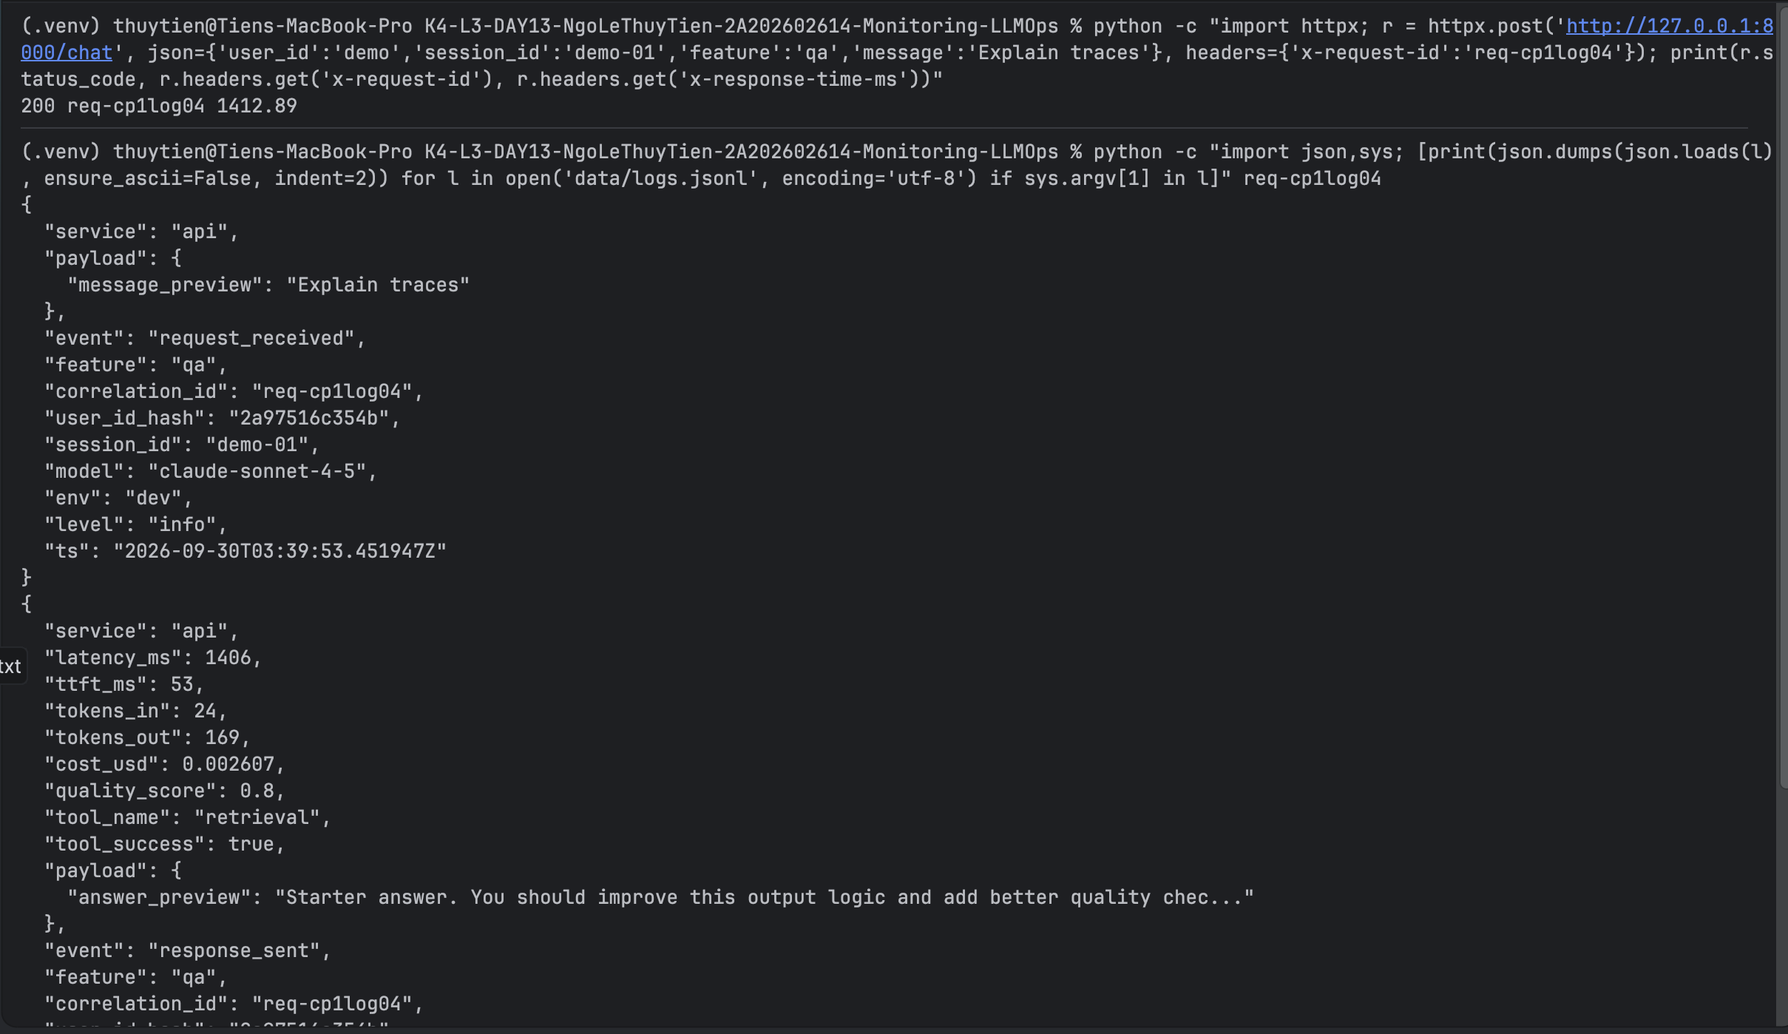
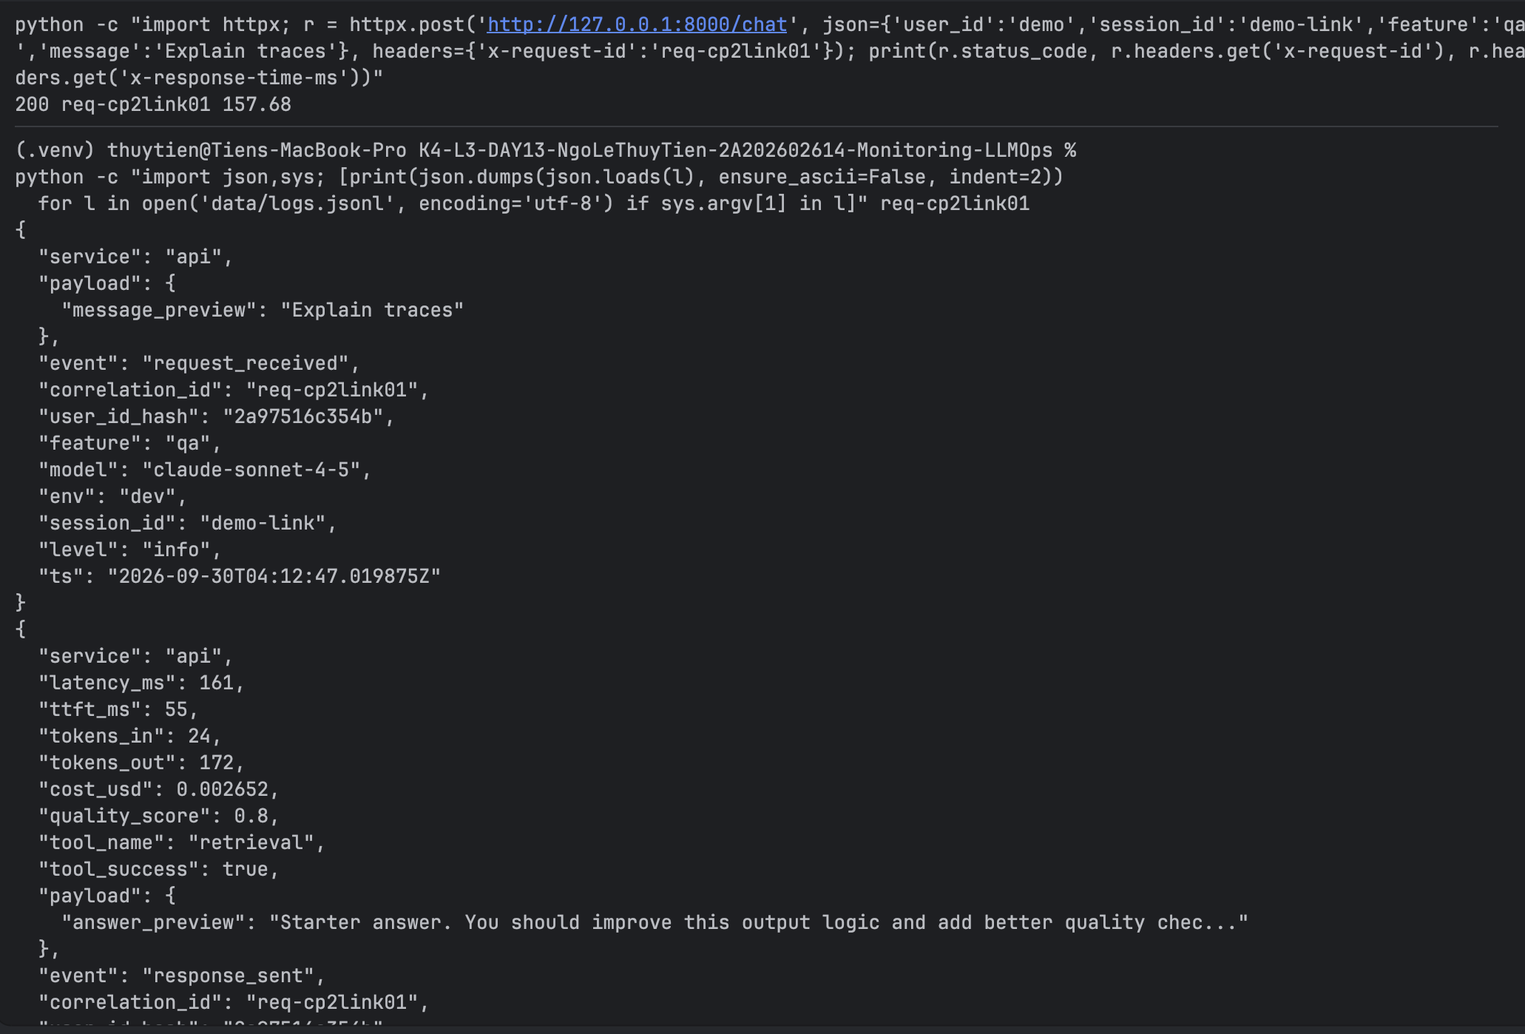
feat: CP2 child observations, prompt versioning, dashboard, SLO and alerts
- tracing: retrieval (retriever) and generation (generation) child observations
  under lab-agent-run with model, usage, cost and prompt link; no raw I/O
- move cost estimate to mock_llm so the generation span carries cost
- dashboard: scripts/dashboard.py draws the 6 panels from data/logs.jsonl
- slo/alerts: latency threshold 2000ms from baseline, three symptom-based
  alerts with duration/owner/Slack channel, runbooks in docs/alerts.md
- report: CP2 results, prompt v1/v2 trace IDs, promote/rollback; evidence 06, 09, 10a, 10b, 11

Changed region(s): [[0.0, 0.0, 1.0, 1.0]]

diff --git a/scripts/dashboard.py b/scripts/dashboard.py
@@ -1,0 +1,138 @@
+"""Vẽ dashboard 6 panel từ data/logs.jsonl theo config/dashboard.yaml.
+
+Cần matplotlib + pandas + pyyaml. Cài vào venv riêng, không cài vào .venv của API:
+    python -m venv .venv-dash && .venv-dash/bin/pip install matplotlib pandas pyyaml
+    .venv-dash/bin/python scripts/dashboard.py --out submission/evidence/11-dashboard-overview.png
+"""
+from __future__ import annotations
+
+import argparse
+import json
+from pathlib import Path
+
+import matplotlib
+
+matplotlib.use("Agg")
+import matplotlib.pyplot as plt
+import pandas as pd
+import yaml
+
+REPO_ROOT = Path(__file__).resolve().parents[1]
+
+
+def load_logs(path: Path) -> pd.DataFrame:
+    rows = [json.loads(line) for line in path.read_text(encoding="utf-8").splitlines() if line.strip()]
+    df = pd.DataFrame(rows)
+    df["ts"] = pd.to_datetime(df["ts"], utc=True)
+    return df
+
+
+def per_minute(df: pd.DataFrame) -> pd.DataFrame:
+    return df.set_index("ts").sort_index()
+
+
+def threshold_line(ax, panel: dict) -> None:
+    th = panel["threshold"]
+    ax.axhline(th["value"], color="crimson", linestyle="--", linewidth=1.2,
+               label=f"threshold {th['aggregation']} {'≤' if th['operator'] == 'lte' else '≥'} {th['value']}")
+
+
+def main() -> None:
+    parser = argparse.ArgumentParser()
+    parser.add_argument("--config", type=Path, default=REPO_ROOT / "config" / "dashboard.yaml")
+    parser.add_argument("--logs", type=Path, default=REPO_ROOT / "data" / "logs.jsonl")
+    parser.add_argument("--out", type=Path, default=REPO_ROOT / "submission" / "evidence" / "11-dashboard-overview.png")
+    args = parser.parse_args()
+
+    cfg = yaml.safe_load(args.config.read_text(encoding="utf-8"))["dashboard"]
+    panels = {p["id"]: p for p in cfg["panels"]}
+    df = load_logs(args.logs)
+    end = df["ts"].max()
+    df = df[df["ts"] >= end - pd.Timedelta(minutes=cfg["time_range_minutes"])]
+    ts = per_minute(df)
+
+    sent = ts[ts["event"] == "response_sent"]
+    recv = ts[ts["event"] == "request_received"]
+    failed = ts[ts["event"] == "request_failed"]
+    tool = ts[ts["tool_success"].notna()] if "tool_success" in ts else ts.iloc[0:0]
+
+    fig, axes = plt.subplots(2, 3, figsize=(19, 9))
+    fig.suptitle(
+        f"{cfg['title']} | last {cfg['time_range_minutes']} min | auto-refresh {cfg['refresh_seconds']}s | "
+        f"{len(recv)} requests, {len(failed)} errors | UTC",
+        fontsize=13,
+    )
+
+    # 1. Latency
+    p = panels["latency"]; ax = axes[0, 0]
+    g = sent["latency_ms"].resample("1min")
+    for q, style in ((0.5, "-"), (0.95, "-"), (0.99, ":")):
+        ax.plot(g.quantile(q).index, g.quantile(q).values, style, marker="o", ms=3, label=f"P{int(q*100)}")
+    tg = sent["ttft_ms"].resample("1min").quantile(0.95)
+    ax.plot(tg.index, tg.values, "--", label="TTFT P95")
+    threshold_line(ax, p)
+    ax.set_title(f"{p['title']} ({p['unit']})")
+
+    # 2. Traffic
+    p = panels["traffic"]; ax = axes[0, 1]
+    tr = recv["event"].resample("1min").count()
+    ax.bar(tr.index, tr.values, width=0.0006, color="tab:blue", label="requests/min")
+    threshold_line(ax, p)
+    ax.set_title(f"{p['title']} ({p['unit']})")
+
+    # 3. Errors
+    p = panels["errors"]; ax = axes[0, 2]
+    n_recv = recv["event"].resample("1min").count()
+    n_fail = failed["event"].resample("1min").count().reindex(n_recv.index, fill_value=0)
+    err = (n_fail / n_recv.where(n_recv > 0) * 100).fillna(0)
+    ax.plot(err.index, err.values, marker="o", ms=3, label="error rate %")
+    if len(tool):
+        ts_rate = tool["tool_success"].astype(float).resample("1min").mean() * 100
+        ax.plot(ts_rate.index, ts_rate.values, marker="s", ms=3, label="retrieval success %")
+    threshold_line(ax, p)
+    ax.set_ylim(-5, 105)
+    ax.set_title(f"{p['title']} ({p['unit']})")
+
+    # 4. Cost (cumulative so it compares with the total threshold)
+    p = panels["cost"]; ax = axes[1, 0]
+    cost = sent["cost_usd"].resample("1min").sum()
+    ax.bar(cost.index, cost.values, width=0.0006, label="USD/min")
+    ax.plot(cost.index, cost.cumsum().values, "k-", marker="o", ms=3, label="cumulative USD")
+    threshold_line(ax, p)
+    ax.set_title(f"{p['title']} ({p['unit']}) total={sent['cost_usd'].sum():.4f}")
+
+    # 5. Tokens
+    p = panels["tokens"]; ax = axes[1, 1]
+    for col in ("tokens_in", "tokens_out"):
+        s = sent[col].resample("1min").sum()
+        ax.plot(s.index, s.values, marker="o", ms=3, label=f"{col}/min")
+    total = sent[["tokens_in", "tokens_out"]].sum()
+    threshold_line(ax, p)
+    ax.set_title(f"{p['title']} ({p['unit']}) in={int(total.tokens_in)} out={int(total.tokens_out)}")
+
+    # 6. Quality
+    p = panels["quality"]; ax = axes[1, 2]
+    q = sent["quality_score"].resample("1min").mean()
+    ax.plot(q.index, q.values, marker="o", ms=3, label="mean quality")
+    threshold_line(ax, p)
+    ax.set_ylim(0, 1.05)
+    ax.set_title(f"{p['title']} ({p['unit']}) mean={sent['quality_score'].mean():.2f}")
+
+    for ax in axes.flat:
+        ax.legend(fontsize=8, loc="best")
+        ax.grid(alpha=0.3)
+        ax.tick_params(axis="x", labelrotation=30, labelsize=8)
+        ax.set_xlim(df["ts"].min() - pd.Timedelta(minutes=1), end + pd.Timedelta(minutes=1))
+        ax.xaxis.set_major_locator(matplotlib.dates.AutoDateLocator(minticks=4, maxticks=8))
+        ax.xaxis.set_major_formatter(matplotlib.dates.DateFormatter("%H:%M"))
+
+    fig.tight_layout(rect=(0, 0, 1, 0.96))
+    args.out.parent.mkdir(parents=True, exist_ok=True)
+    fig.savefig(args.out, dpi=110)
+    print(f"Đã ghi {args.out}")
+    print(sent["latency_ms"].describe(percentiles=[0.5, 0.95, 0.99]).round(1).to_string())
+    print("retrieval success %:", round(tool["tool_success"].astype(float).mean() * 100, 1) if len(tool) else "n/a")
+
+
+if __name__ == "__main__":
+    main()

diff --git a/app/mock_llm.py b/app/mock_llm.py
@@ -5,6 +5,16 @@ import time
 from dataclasses import dataclass
 
 from .incidents import STATE
+from .tracing import get_langfuse_client, observe
+
+INPUT_USD_PER_MTOK = 3
+OUTPUT_USD_PER_MTOK = 15
+
+
+def estimate_cost(tokens_in: int, tokens_out: int) -> float:
+    input_cost = (tokens_in / 1_000_000) * INPUT_USD_PER_MTOK
+    output_cost = (tokens_out / 1_000_000) * OUTPUT_USD_PER_MTOK
+    return round(input_cost + output_cost, 6)
 
 
 @dataclass
@@ -25,6 +35,7 @@ class FakeLLM:
     def __init__(self, model: str = "claude-sonnet-4-5") -> None:
         self.model = model
 
+    @observe(name="generation", as_type="generation", capture_input=False, capture_output=False)
     def generate(self, prompt: str) -> FakeResponse:
         started = time.perf_counter()
         time.sleep(0.05)  # mô phỏng thời điểm token đầu tiên sẵn sàng
@@ -37,6 +48,16 @@ class FakeLLM:
         answer = (
             "Starter answer. You should improve this output logic and add better quality checks. "
             "Use retrieved context and keep responses concise."
+        )
+        get_langfuse_client().update_current_generation(
+            model=self.model,
+            usage_details={"input": input_tokens, "output": output_tokens},
+            cost_details={
+                "input": estimate_cost(input_tokens, 0),
+                "output": estimate_cost(0, output_tokens),
+                "total": estimate_cost(input_tokens, output_tokens),
+            },
+            metadata={"ttft_ms": ttft_ms},
         )
         return FakeResponse(
             text=answer,

diff --git a/app/agent.py b/app/agent.py
@@ -5,7 +5,7 @@ import time
 from dataclasses import dataclass
 
 from . import metrics
-from .mock_llm import FakeLLM
+from .mock_llm import FakeLLM, estimate_cost
 from .mock_rag import retrieve
 from .pii import hash_user_id, summarize_text
 from .prompt_management import resolve_prompt
@@ -71,8 +71,6 @@ class LabAgent:
                 },
                 version=prompt.version,
             )
-            # TODO (CP2): instrument retrieve() and FakeLLM.generate() as child
-            # observations. The nested generation must receive prompt, usage and cost.
             with propagate_attributes(prompt=prompt.managed_prompt):
                 response = self.llm.generate(prompt.text)
             quality_score = self._heuristic_quality(message, response.text, docs)
@@ -99,9 +97,7 @@ class LabAgent:
         )
 
     def _estimate_cost(self, tokens_in: int, tokens_out: int) -> float:
-        input_cost = (tokens_in / 1_000_000) * 3
-        output_cost = (tokens_out / 1_000_000) * 15
-        return round(input_cost + output_cost, 6)
+        return estimate_cost(tokens_in, tokens_out)
 
     def _heuristic_quality(self, question: str, answer: str, docs: list[str]) -> float:
         score = 0.5

diff --git a/app/mock_rag.py b/app/mock_rag.py
@@ -3,6 +3,7 @@ from __future__ import annotations
 import time
 
 from .incidents import STATE
+from .tracing import observe
 
 CORPUS = {
     "refund": ["Refunds are available within 7 days with proof of purchase."],
@@ -11,6 +12,7 @@ CORPUS = {
 }
 
 
+@observe(name="retrieval", as_type="retriever", capture_input=False, capture_output=False)
 def retrieve(message: str) -> list[str]:
     if STATE["tool_fail"]:
         raise RuntimeError("Vector store timeout")

diff --git a/submission/REPORT.md b/submission/REPORT.md
@@ -25,9 +25,9 @@
 | PII redaction | `evidence/05-pii-redaction.png` |
 | Trace list | `evidence/06-trace-list.png` |
 | Trace waterfall | `evidence/07-trace-waterfall.png` |
-| Trace metadata | `evidence/08-trace-metadata.png` |
+| Trace metadata | `evidence/08a-trace-metadata.png` (lab-agent-run), `evidence/08b-generation-prompt-link.png` (generation, link prompt) |
 | Prompt versions | `evidence/09-prompt-versions.png` |
-| Prompt rollback | `evidence/10-prompt-rollback.png` |
+| Prompt rollback | `evidence/10a-promote-production-v2.png` (sau promote), `evidence/10b-rollback-production-v1.png` (sau rollback) |
 | Dashboard runtime | `evidence/11-dashboard-overview.png` |
 | Incident metric | `evidence/12-incident-metric.png` |
 | Incident log | `evidence/13-incident-log.png` |
@@ -38,37 +38,37 @@
 | Nội dung | Baseline | Kết quả cuối | Nhận xét |
 |---|---|---|---|
 | `validate_logs.py` | 30/100 (21 log, thiếu required fields/context, 0 correlation ID) | 100/100 | 0 record thiếu field, 10 correlation ID |
-| `validate_dashboard.py` | | | |
+| `validate_dashboard.py` | 6/6 (contract starter, chưa có dữ liệu) | HỢP LỆ: 6/6 panel | Đã dựng dashboard có dữ liệu thật, evidence 11 |
 | `pytest` | | | |
-| Số traces hợp lệ | | | |
+| Số traces hợp lệ | 0 (chưa có retrieval/generation) | 51 trace đủ cây (48 có prompt link) | Kiểm tra bằng Langfuse observations API |
 | Số PII leak | 0 | 0 | Log runtime chỉ còn `[REDACTED_*]` |
-| Latency P95 / TTFT P95 | | | |
-| Retrieval success rate | | | |
+| Latency P95 / TTFT P95 | | P95 162 ms (P50 159 ms, P99 883 ms) | 43 request, không bật incident; TTFT P95 khoảng 50-55 ms |
+| Retrieval success rate | | 100% | 43/43 response_sent có tool_success=true |
 
 ## 4. Logging và PII
 
-- **Cách tạo/nhận và truyền correlation ID:** `CorrelationIdMiddleware` (`app/middleware.py`) gọi `clear_contextvars()` đầu mỗi request, nhận header `x-request-id` hoặc sinh `req-<8 hex>`, bind vào structlog contextvars và `request.state`, rồi trả lại qua header `x-request-id` cùng `x-response-time-ms`. ID dùng cho evidence 04: `req-cp1log04` (evidence 05: `req-cp1pii02`).
+- **Cách tạo/nhận và truyền correlation ID:** `CorrelationIdMiddleware` (`app/middleware.py`) gọi `clear_contextvars()` đầu mỗi request, nhận header `x-request-id` hoặc sinh `req-<8 hex>`, bind vào structlog contextvars và `request.state`, rồi trả lại qua header `x-request-id` cùng `x-response-time-ms`. ID dùng cho evidence 04: `req-cp2link01` (evidence 05: `req-cp1pii02`).
 - **Các metadata được ghi vào structured log:** `ts`, `level`, `event`, `correlation_id`, `user_id_hash` (SHA-256 cắt 12 ký tự), `session_id`, `feature`, `model`, `env`; `response_sent` thêm `latency_ms`, `ttft_ms`, `tokens_in/out`, `cost_usd`, `quality_score`. Các field context được bind trong `app/main.py` trước log `request_received`.
 - **Cách bảo đảm PII được scrub trước khi ghi:** processor `scrub_event` được đăng ký trong `app/logging_config.py` trước `JsonlFileProcessor`, nên payload và event đã được che trước khi ghi file/render JSON. `app/pii.py` che email, điện thoại VN, CCCD, thẻ và passport.
 - **Cách kiểm chứng kết quả:** `validate_logs.py` từ 30/100 lên 100/100 (0 PII leak, 10 correlation ID khác nhau); `tests/test_pii.py` có test CCCD, thẻ, passport; gửi request chứa PII giả và thấy log hiện `[REDACTED_*]` (evidence 05).
 
 ## 5. Tracing và prompt versioning
 
-- **Cách xác nhận traces do chính tôi tạo trong project cá nhân:**
-- **Cấu trúc root/retrieval/generation observations:**
-- **Cách nối trace với log:**
-- **Prompt name:**
-- **Version/label baseline:**
-- **Version/label candidate:**
-- **Trace ID của mỗi version:**
-- **Cách promote và rollback `production`:**
+- **Cách xác nhận traces do chính tôi tạo trong project cá nhân:** Mở project `day13-k4-l3b-2A202602614`, lọc Metadata `correlation_id` = `req-cp2link01`; các trace có `correlation_id` trùng với log local do tôi tự chạy `load_test.py` và request tay. Đếm bằng Langfuse observations API: 51 trace đủ cây, hơn 10 yêu cầu.
+- **Cấu trúc root/retrieval/generation observations:** `day13-agent-request` (trace) → `lab-agent-run` (agent) → `retrieval` (retriever, `@observe` trên `retrieve`) và `generation` (generation, `@observe` trên `FakeLLM.generate`). Generation có `model`, `usage_details` (input/output), `cost_details` và link prompt qua `propagate_attributes(prompt=...)`. Tất cả `capture_input=False`, `capture_output=False` nên không có raw input/output.
+- **Cách nối trace với log:** `correlation_id` (do middleware sinh/nhận) nằm trong metadata của trace và trong mọi dòng log. Ví dụ `req-cp2link01` ↔ trace `25c02ddaafb30251e4afaba59638282d` (evidence 04, 07, 08).
+- **Prompt name:** `day13-chat` (text prompt, ba biến `{{feature}}`, `{{docs}}`, `{{message}}`)
+- **Version/label baseline:** v1, labels `baseline` + `production`
+- **Version/label candidate:** v2, label `candidate` (thêm dòng "Trả lời ngắn gọn."); `latest` do Langfuse tự gắn
+- **Trace ID của mỗi version:** v1 (`baseline`): `ab8f7a455c51766fe08a4cd8294bc24f`; v2 (`candidate`): `3346641ad0a67a6bb31a747a985055a0`. Cả hai có `prompt_name`, `prompt_label`, `prompt_version` đúng trong metadata và generation link tới đúng version.
+- **Cách promote và rollback `production`:** Không sửa code, chỉ dời label. Promote: `production` → v2, restart API, request `req-cp2-promote` cho `prompt_version=2`. Rollback: `production` → v1, restart, request `req-cp2-rollback` cho `prompt_version=1`. Mỗi lần restart API chờ vài giây sau request cuối để trace kịp gửi. Trạng thái cuối: `production` → v1.
 
 ## 6. Dashboard, SLO và alerts
 
-- **Dashboard và sáu panel:**
-- **SLO và lý do chọn:**
-- **Cách tính error budget:**
-- **Ba alert và runbook tương ứng:**
+- **Dashboard và sáu panel:** `scripts/dashboard.py` (matplotlib, venv riêng) đọc `data/logs.jsonl` theo `config/dashboard.yaml`: Latency (P50/P95/P99 + TTFT P95), Traffic, Errors (error rate + retrieval success), Cost, Tokens, Quality; mỗi panel có đơn vị, time range 60 phút và đường threshold. Evidence 11: 43 request rải trong 10 phút, 0 lỗi. Retrieval success tính trên mọi event có `tool_success`.
+- **SLO và lý do chọn:** 99.5% request `response_sent` với `latency_ms <= 2000` trong 28 ngày. Ngưỡng starter 3000ms quá rộng: `rag_slow` chỉ làm latency khoảng 2.7s nên vẫn "đạt". Baseline của tôi P95 162ms, P99 883ms nên 2000ms không báo nhầm mà vẫn bắt được `rag_slow`. Đã hạ cả threshold panel Latency xuống 2000.
+- **Cách tính error budget:** 0.5% của tổng request. 10,000 request → 50 request được phép chậm hơn 2000ms hoặc lỗi; 1,000 request → 5; ở quy mô lab khoảng 100 request thì dưới 1, nghĩa là một request lỗi đã dùng hết budget.
+- **Ba alert và runbook tương ứng:** `HighLatencyP95` (P95 > 2000ms, 5m, warning), `HighErrorRateOrRetrievalFailure` (error rate > 2% hoặc retrieval success < 90%, 3m, critical), `CostPerRequestSpike` (avg cost > 0.005 USD, 10m, warning; baseline khoảng 0.002). Cấu hình ở `config/alert_rules.yaml`, runbook Metrics → Logs → Traces và mitigation ở `docs/alerts.md#alert-1..3`; kênh Slack `#k4-l3b-alerts`, owner `student-2A202602614`.
 
 > Ví dụ cách viết error budget: "SLO 99.5% trong 28 ngày nghĩa là error budget 0.5%. Nếu workload có 10,000 request thì tối đa 50 request được phép lỗi hoặc chậm hơn ngưỡng SLO."
 

diff --git a/docs/alerts.md b/docs/alerts.md
@@ -22,39 +22,48 @@ Ví dụ dưới đây minh họa mức độ cụ thể cần có. Học viên 
 
 ## Alert 1
 
-- Tên:
-- Severity:
-- Duration:
-- Kênh thông báo: Slack
-- SLI/SLO liên quan:
-- Điều kiện và thời gian duy trì:
-- Ảnh hưởng tới người dùng:
+- Tên: `HighLatencyP95`
+- Severity: `warning`
+- Duration: `5m`
+- Kênh thông báo: Slack `#k4-l3b-alerts`
+- SLI/SLO liên quan: `fast_successful_requests` (`latency_ms <= 2000`, target 99.5%); P95 của `response_sent.latency_ms`
+- Điều kiện và thời gian duy trì: `p95(latency_ms) > 2000ms` liên tục 5 phút (baseline P95 dưới 1s)
+- Ảnh hưởng tới người dùng: câu trả lời đến chậm hơn 2 giây, mỗi request chậm đều tiêu tốn error budget
 - Ba bước kiểm tra đầu tiên:
-- Mitigation tạm thời:
-- Owner:
+  1. Metrics: mở panel Latency, xác nhận P95/P99 vượt đường threshold và thời điểm bắt đầu tăng; xem TTFT P95 có tăng cùng không (TTFT không tăng nghĩa là chậm ở khâu retrieval, không phải ở model).
+  2. Logs: lọc `data/logs.jsonl` theo `event == "response_sent"` trong khoảng đó, sắp xếp theo `latency_ms` giảm dần và lấy một `correlation_id` chậm nhất.
+  3. Traces: mở trace có `correlation_id` đó trên Langfuse; trong waterfall so thời gian `retrieval` với `generation`. Nếu `retrieval` chiếm gần hết thời gian thì nguyên nhân là retrieval chậm (practice: `rag_slow`).
+- Mitigation tạm thời: tắt nguồn gây chậm (practice: `POST /incidents/rag_slow/disable`); nếu bắt đầu ngay sau khi promote prompt thì rollback label `production` về version cũ; nếu do tải cao thì giảm tải/`--concurrency`. Xác nhận P95 về dưới 2000ms trong 5 phút.
+- Owner: `student-2A202602614`
 
 ## Alert 2
 
-- Tên:
-- Severity:
-- Duration:
-- Kênh thông báo: Slack
-- SLI/SLO liên quan:
-- Điều kiện và thời gian duy trì:
-- Ảnh hưởng tới người dùng:
+- Tên: `HighErrorRateOrRetrievalFailure`
+- Severity: `critical`
+- Duration: `3m`
+- Kênh thông báo: Slack `#k4-l3b-alerts`
+- SLI/SLO liên quan: `fast_successful_requests` (request lỗi không có `response_sent` nên là request "xấu"); guardrail `error_rate_pct_max: 2` và `retrieval_success_rate_pct_min: 90`
+- Điều kiện và thời gian duy trì: error rate (`request_failed / request_received`) > 2% **hoặc** retrieval success (`tool_success == true` trên mọi event có `tool_success`) < 90%, liên tục 3 phút
+- Ảnh hưởng tới người dùng: người dùng nhận HTTP 500 và không có câu trả lời
 - Ba bước kiểm tra đầu tiên:
-- Mitigation tạm thời:
-- Owner:
+  1. Metrics: mở panel Errors, xem error rate và retrieval success có vượt threshold không và bắt đầu từ lúc nào.
+  2. Logs: lọc `event == "request_failed"`, nhóm theo `error_type` và `tool_name`; ghi lại một `correlation_id` (practice: `RuntimeError`, `tool_name=retrieval`, `payload.detail = "Vector store timeout"`).
+  3. Traces: mở trace theo `correlation_id`; observation `retrieval` phải có level ERROR và sinh ra lỗi, `generation` không xuất hiện vì request dừng ở retrieval.
+- Mitigation tạm thời: khôi phục vector store/cấu hình retrieval (practice: `POST /incidents/tool_fail/disable`); nếu cần, trả câu trả lời fallback không dùng context thay vì lỗi 500. Xác nhận error rate về dưới 2% và retrieval success trên 90% trong 3 phút.
+- Owner: `student-2A202602614`
 
 ## Alert 3
 
-- Tên:
-- Severity:
-- Duration:
-- Kênh thông báo: Slack
-- SLI/SLO liên quan:
-- Điều kiện và thời gian duy trì:
-- Ảnh hưởng tới người dùng:
+- Tên: `CostPerRequestSpike`
+- Severity: `warning`
+- Duration: `10m`
+- Kênh thông báo: Slack `#k4-l3b-alerts`
+- SLI/SLO liên quan: guardrail `daily_cost_usd_max: 2.5`; chi phí trung bình mỗi `response_sent` (baseline khoảng 0.002 USD)
+- Điều kiện và thời gian duy trì: `avg(cost_usd) > 0.005 USD` liên tục 10 phút (khoảng 2.5 lần baseline); dùng chi phí mỗi request để không phụ thuộc lưu lượng
+- Ảnh hưởng tới người dùng: người dùng không thấy lỗi ngay, nhưng chi phí vận hành tăng nhanh và có thể vượt ngân sách ngày
 - Ba bước kiểm tra đầu tiên:
-- Mitigation tạm thời:
-- Owner:
+  1. Metrics: mở panel Cost và Tokens, xem `tokens_out` hay `tokens_in` tăng (practice `cost_spike` làm `tokens_out` tăng khoảng 4 lần).
+  2. Logs: lọc `event == "response_sent"`, sắp xếp theo `cost_usd` giảm dần, đối chiếu `tokens_in`/`tokens_out` và `feature` để xem tăng ở một feature hay toàn bộ.
+  3. Traces: mở trace theo `correlation_id`, xem observation `generation` (usage input/output, cost) và `prompt_version`; nếu chi phí tăng ngay sau khi đổi prompt thì đó là nguyên nhân.
+- Mitigation tạm thời: rollback label `production` về prompt version trước đó; giới hạn độ dài output hoặc chuyển sang model rẻ hơn cho feature bị ảnh hưởng (practice: `POST /incidents/cost_spike/disable`). Xác nhận `avg(cost_usd)` về dưới 0.005.
+- Owner: `student-2A202602614`
